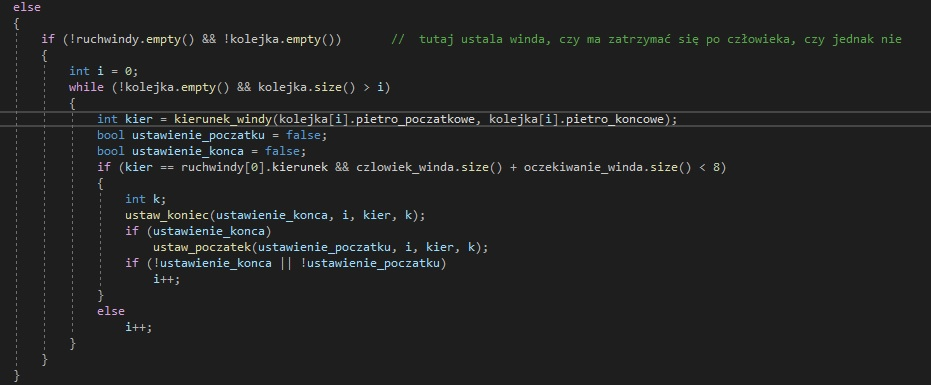
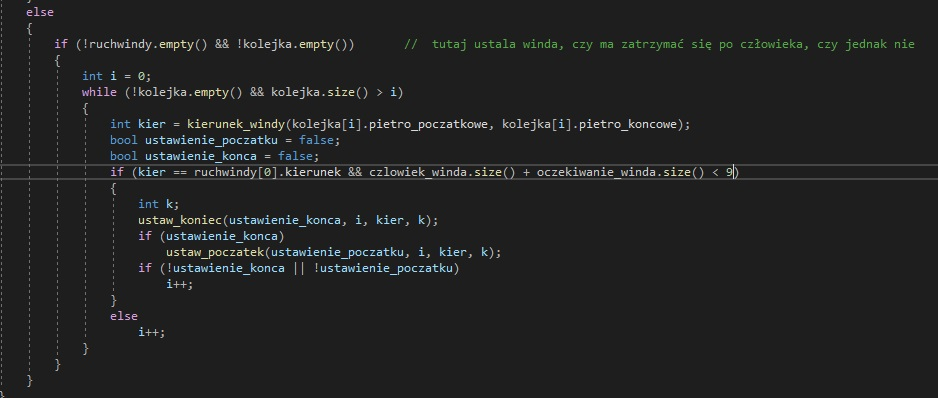
s

diff --git a/draw/draw2.cpp b/draw/draw2.cpp
@@ -630,7 +630,7 @@ void ustaw_winda()
 				int kier = kierunek_windy(kolejka[i].pietro_poczatkowe, kolejka[i].pietro_koncowe);
 				bool ustawienie_poczatku = false;
 				bool ustawienie_konca = false;
-				if (kier == ruchwindy[0].kierunek && czlowiek_winda.size() + oczekiwanie_winda.size() < 8)
+				if (kier == ruchwindy[0].kierunek && czlowiek_winda.size() + oczekiwanie_winda.size() < 9)
 				{
 					int k;
 					ustaw_koniec(ustawienie_konca, i, kier, k);
